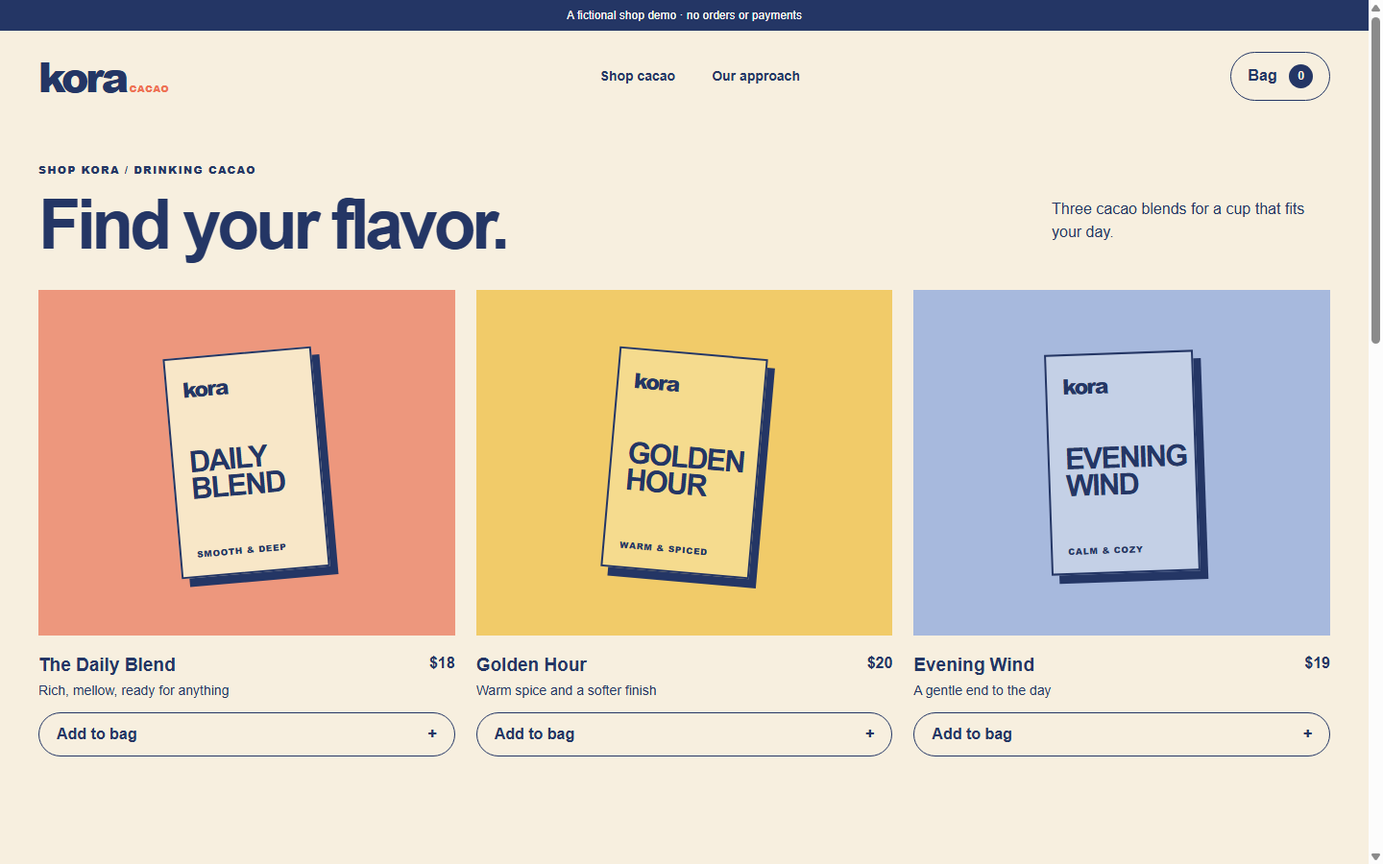
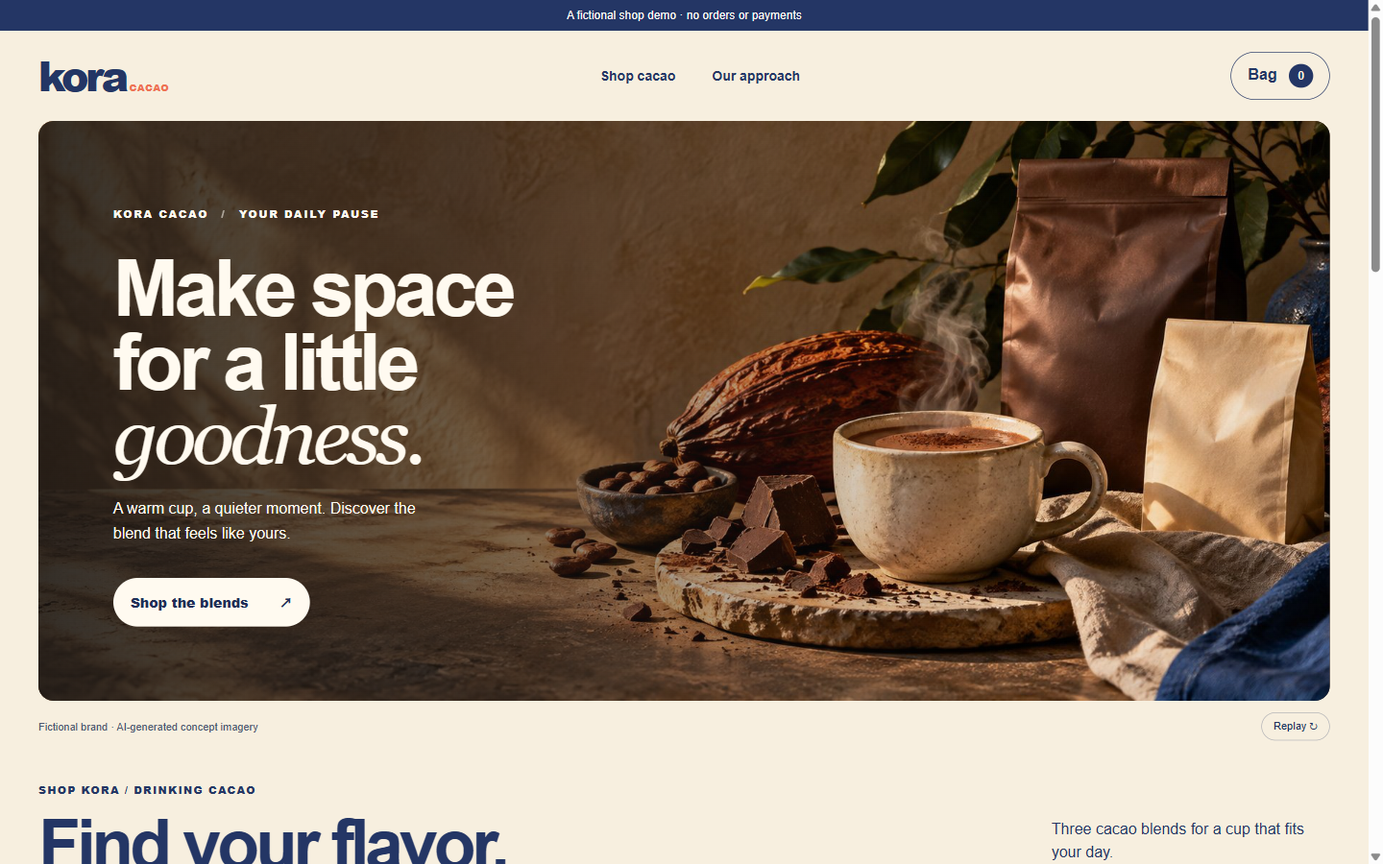
提升影像质感与交互动效

diff --git a/examples/kora-shop/visual.js b/examples/kora-shop/visual.js
@@ -1,0 +1,110 @@
+(() => {
+  const host = document.querySelector('.campaign');
+  const image = host?.querySelector('.campaign-image');
+  const button = document.querySelector('#replay-reveal');
+  if (!host || !image || !button || !window.matchMedia) return;
+  const preference = matchMedia('(prefers-reduced-motion: reduce)');
+  const canvas = document.createElement('canvas');
+  const context = canvas.getContext('2d');
+  const sampler = document.createElement('canvas');
+  const sample = sampler.getContext('2d', { willReadFrequently: true });
+  if (!context || !sample) return;
+  canvas.className = 'campaign-visual';
+  canvas.setAttribute('aria-hidden', 'true');
+  canvas.hidden = true;
+  host.append(canvas);
+  let frame = 0;
+  let started = 0;
+  let ready = false;
+  let cells = [];
+  let width = 0, height = 0, step = 0;
+
+  function finish() {
+    cancelAnimationFrame(frame);
+    frame = 0;
+    host.classList.remove('is-revealing');
+    host.dataset.reveal = 'settled';
+    canvas.hidden = true;
+    button.textContent = 'Replay ↻';
+    button.setAttribute('aria-label', 'Replay image reveal');
+  }
+
+  function render(time) {
+    if (!started) started = time;
+    const progress = Math.min(1, (time - started) / 1150);
+    const ease = 1 - (1 - progress) ** 3;
+    context.clearRect(0, 0, width, height);
+    context.fillStyle = '#30231c';
+    context.fillRect(0, 0, width, height);
+    for (const cell of cells) {
+      const x = cell.x + cell.dx * (1 - ease);
+      const y = cell.y + cell.dy * (1 - ease);
+      const size = Math.max(1, step * (.18 + .84 * ease));
+      context.fillStyle = cell.color;
+      context.fillRect(x - size / 2, y - size / 2, size, size);
+    }
+    if (progress < 1) frame = requestAnimationFrame(render);
+    else finish();
+  }
+
+  function start() {
+    if (preference.matches || document.hidden || !image.naturalWidth) return;
+    const box = host.getBoundingClientRect();
+    if (!box.width || !box.height || box.bottom < 0 || box.top > innerHeight) return;
+    try {
+      finish();
+      width = Math.round(box.width);
+      height = Math.round(box.height);
+      const density = Math.min(devicePixelRatio || 1, 1.5);
+      canvas.width = Math.round(width * density);
+      canvas.height = Math.round(height * density);
+      context.setTransform(density, 0, 0, density, 0, 0);
+      step = Math.max(12, Math.sqrt(width * height / 1400));
+      const columns = Math.ceil(width / step), rows = Math.ceil(height / step);
+      sampler.width = columns; sampler.height = rows;
+      const scale = Math.max(width / image.naturalWidth, height / image.naturalHeight);
+      const sw = width / scale, sh = height / scale;
+      const x = (image.naturalWidth - sw) * .59, y = (image.naturalHeight - sh) / 2;
+      sample.drawImage(image, x, y, sw, sh, 0, 0, columns, rows);
+      const pixels = sample.getImageData(0, 0, columns, rows).data;
+      cells = [];
+      for (let row = 0; row < rows; row++) for (let column = 0; column < columns; column++) {
+        const index = (row * columns + column) * 4;
+        const seed = Math.sin(column * 91.7 + row * 173.1) * 43758.5;
+        const angle = (seed - Math.floor(seed)) * Math.PI * 2;
+        cells.push({ x: (column + .5) * step, y: (row + .5) * step,
+          dx: Math.cos(angle) * step * 3, dy: Math.sin(angle) * step * 3,
+          color: `rgb(${pixels[index]},${pixels[index + 1]},${pixels[index + 2]})` });
+      }
+      canvas.hidden = false;
+      host.classList.add('is-revealing');
+      host.dataset.reveal = 'forming';
+      button.textContent = 'Skip';
+      button.setAttribute('aria-label', 'Skip image reveal');
+      started = 0;
+      frame = requestAnimationFrame(render);
+    } catch {
+      finish();
+      ready = false;
+      button.hidden = true;
+    }
+  }
+
+  button.addEventListener('click', () => frame ? finish() : start());
+  preference.addEventListener('change', () => { finish(); button.hidden = preference.matches || !ready; });
+  document.addEventListener('visibilitychange', () => { if (document.hidden) finish(); });
+  window.addEventListener('resize', finish, { passive: true });
+  if ('IntersectionObserver' in window) {
+    new IntersectionObserver(([entry]) => { if (!entry.isIntersecting && frame) finish(); }).observe(host);
+  }
+  const decoded = typeof image.decode === 'function' ? image.decode() : new Promise((resolve, reject) => {
+    if (image.complete) return image.naturalWidth ? resolve() : reject();
+    image.addEventListener('load', resolve, { once: true });
+    image.addEventListener('error', reject, { once: true });
+  });
+  decoded.then(() => {
+    ready = true;
+    button.hidden = preference.matches;
+    start();
+  }).catch(() => { finish(); button.hidden = true; });
+})();

diff --git a/examples/kora-shop/styles.css b/examples/kora-shop/styles.css
@@ -295,7 +295,7 @@ button:focus-visible,a:focus-visible {
   gap: 30px;
   margin-bottom: 32px;
 }
-.section-intro h1 {
+.section-intro h2 {
   font-size: clamp(42px,5vw,72px);
   letter-spacing: -.06em;
   line-height: 1;
@@ -651,4 +651,84 @@ dialog[open] {
 }
 .add-button:active, .pill:active {
   box-shadow: inset 0 2px 5px #101d3e66;
+}
+
+/* An editorial image gives the fictional collection a material world of its own. */
+.campaign {
+  position: relative;
+  isolation: isolate;
+  min-height: clamp(460px, 44vw, 600px);
+  overflow: hidden;
+  color: #fffaf0;
+  background: #4a2f21;
+  border-radius: 16px;
+}
+.campaign-image {
+  position: absolute;
+  inset: 0;
+  width: 100%;
+  height: 100%;
+  object-fit: cover;
+  object-position: 59% center;
+  transition: transform 1.2s cubic-bezier(.2,.7,.2,1);
+}
+.campaign:hover .campaign-image { transform: scale(1.025); }
+.campaign::after {
+  content: "";
+  position: absolute;
+  inset: 0;
+  z-index: 0;
+  background: linear-gradient(90deg, rgba(24,20,17,.88) 0%, rgba(24,20,17,.64) 32%, rgba(24,20,17,.04) 72%);
+  pointer-events: none;
+}
+.campaign-copy {
+  position: relative;
+  z-index: 1;
+  width: min(650px, 72%);
+  padding: clamp(38px, 5.4vw, 78px);
+}
+.campaign-kicker { font-size: 11px; letter-spacing: .16em; font-weight: 800; }
+.campaign-kicker span { margin: 0 8px; opacity: .65; }
+.campaign h1 {
+  margin: 32px 0 24px;
+  font-size: clamp(3.25rem, 5.7vw, 6rem);
+  line-height: .94;
+  letter-spacing: -.055em;
+}
+.campaign h1 em { font-family: Georgia, serif; font-weight: 400; }
+.campaign-copy>p:not(.campaign-kicker) { max-width: 340px; line-height: 1.6; font-size: 16px; }
+.campaign-link {
+  display: inline-flex;
+  justify-content: space-between;
+  align-items: center;
+  gap: 32px;
+  margin-top: 17px;
+  padding: 15px 18px;
+  color: #202f58;
+  background: #fffaf0;
+  border-radius: 999px;
+  font-size: 14px;
+  font-weight: 800;
+  text-decoration: none;
+  transition: background-color .2s, transform .2s;
+}
+.campaign-link:hover { background: #f6d776; transform: translateY(-2px); }
+.campaign-link:focus-visible { outline: 3px solid #fff; outline-offset: 5px; }
+.campaign-visual { position: absolute; inset: 0; width: 100%; height: 100%; pointer-events: none; }
+.campaign.is-revealing .campaign-image { opacity: 0; }
+.campaign-meta { display: flex; justify-content: space-between; align-items: center; gap: 16px; padding-top: 12px; color: #4f5970; font-size: 11px; }
+.campaign-meta button { border: 1px solid #20326055; border-radius: 999px; padding: 7px 12px; color: #203260; background: transparent; cursor: pointer; font: inherit; }
+.campaign-meta button:hover { background: #203260; color: #fff; }
+.campaign-meta button:focus-visible { outline: 3px solid #203260; outline-offset: 3px; }
+@media(max-width:700px) {
+  .campaign { min-height: 520px; border-radius: 12px; }
+  .campaign-image { object-position: 63% center; }
+  .campaign::after { background: linear-gradient(90deg,rgba(24,20,17,.91),rgba(24,20,17,.62) 55%,rgba(24,20,17,.22)); }
+  .campaign-copy { width: 94%; padding: 44px 26px 76px; }
+  .campaign h1 { margin: 40px 0 24px; font-size: clamp(3rem, 12.5vw, 4.2rem); }
+  .campaign-link { gap: 12px; padding: 14px 16px; font-size: 13px; }
+}
+@media(prefers-reduced-motion:reduce) {
+  .campaign-image, .campaign-link { transition: none; }
+  .campaign:hover .campaign-image, .campaign-link:hover { transform: none; }
 }

diff --git a/examples/kora-shop/index.html b/examples/kora-shop/index.html
@@ -7,6 +7,7 @@
   <title>Kora Cacao — a little daily ritual</title>
   <link rel="stylesheet" href="./styles.css">
   <script src="./app.js" defer></script>
+  <script src="./visual.js" defer></script>
 </head>
 <body id="top">
 <a class="skip" href="#main">Skip to content</a>
@@ -17,8 +18,18 @@
   <button class="cart-trigger" type="button" id="cart-open" aria-haspopup="dialog">Bag <span id="cart-count">0</span></button>
 </header>
 <main id="main" tabindex="-1">
+  <section class="campaign wrap" aria-labelledby="campaign-title">
+    <img class="campaign-image" src="./assets/cacao-ritual.jpg" alt="" width="1947" height="808" fetchpriority="high">
+    <div class="campaign-copy">
+      <p class="campaign-kicker">KORA CACAO <span aria-hidden="true"> / </span> YOUR DAILY PAUSE</p>
+      <h1 id="campaign-title">Make space<br>for a little<br><em>goodness.</em></h1>
+      <p>A warm cup, a quieter moment. Discover the blend that feels like yours.</p>
+      <a class="campaign-link" href="#shop">Shop the blends <span aria-hidden="true">↗</span></a>
+    </div>
+  </section>
+  <div class="campaign-meta wrap"><span>Fictional brand · AI-generated concept imagery</span><button id="replay-reveal" type="button" aria-label="Replay image reveal" hidden>Replay ↻</button></div>
   <section class="shop wrap" id="shop" aria-labelledby="shop-title">
-    <div class="section-intro"><div><p class="eyebrow">SHOP KORA / DRINKING CACAO</p><h1 id="shop-title">Find your flavor.</h1></div><p>Three cacao blends for a cup that fits your day.</p></div>
+    <div class="section-intro"><div><p class="eyebrow">SHOP KORA / DRINKING CACAO</p><h2 id="shop-title">Find your flavor.</h2></div><p>Three cacao blends for a cup that fits your day.</p></div>
     <div class="products">
       <article class="product"><div class="product-art art-coral"><div class="mini-pack"><span>kora</span><strong>DAILY<br>BLEND</strong><small>SMOOTH &amp; DEEP</small></div><span class="product-number">01</span></div><div class="product-info"><div><h3>The Daily Blend</h3><p>Rich, mellow, ready for anything</p></div><span>$18</span></div><button class="add-button" data-add="daily" type="button">Add to bag <span aria-hidden="true">+</span></button></article>
       <article class="product"><div class="product-art art-yellow"><div class="mini-pack mini-yellow"><span>kora</span><strong>GOLDEN<br>HOUR</strong><small>WARM &amp; SPICED</small></div><span class="product-number">02</span></div><div class="product-info"><div><h3>Golden Hour</h3><p>Warm spice and a softer finish</p></div><span>$20</span></div><button class="add-button" data-add="golden" type="button">Add to bag <span aria-hidden="true">+</span></button></article>

diff --git a/skills/portfolio-website/references/interaction-motion.md b/skills/portfolio-website/references/interaction-motion.md
@@ -8,6 +8,7 @@ These are techniques to adapt, not a required effects checklist. Combine them wh
 | --- | --- | --- |
 | Responsive icons, press and release: controls, reactions, navigation | Animate transforms, opacity or compatible SVG shapes from the real control state; expose a correct accessible label and pressed/expanded state. Design idle, focus, pressed, disabled and return states. | Keyboard and touch activation, repeated taps, cancellation, final state and reduced motion. |
 | Spatial depth, sticky stories and parallax: campaigns, portfolios, editorial | Give layers different scroll-linked movement only where the story benefits; retain readable content and a normal-flow fallback. Feature-detect scroll timelines; on small screens adjust or remove independent layer travel where it would cover text. | Watch the entire scroll at phone, intermediate and desktop widths. Measure moving layers against text, inspect slow scroll and motion off; unsupported browsers must still show the content. |
+| Image formation and particle reveal: visual stories, exhibitions, expressive brand work | Use the real, permitted image as the content and static fallback. A canvas can sample its colours and form an image from points, then settle into the original; optionally provide replay or pointer response. Keep text and controls above the visual layer. Budget particle count, stop work while hidden or off-screen, and handle decoding, resizing and reduced motion. | Observe beginning, middle and settled frames; test replay, pointer and touch where offered, resizing, pause, reduced motion, slow loading and canvas failure. The underlying image and actions must stay usable. |
 | Shared-element and card-to-detail transitions: collections, product detail, media | Use matching geometry or the View Transition API as progressive enhancement. Update the real view even if an animation is skipped; move focus appropriately when its previous target disappears. | Navigate in and back, click rapidly, use keyboard, check unsupported browsers and reduced motion. Avoid stretched text and duplicate transition names. |
 | Tilt, pointer spotlight, glowing edges: tactile product or campaign surfaces | Keep the hit target stable and animate an inner decorative layer. Clamp pointer coordinates, reset on leave/cancel and offer a still appearance on touch and keyboard. | Pointer entry/exit, fast movement, focus, touch, contrast and small viewports. Check that the highlight never conceals a label. |
 | Glass, ambient color and dimensional scenes: brand atmosphere, immersive products | Compose layered translucent surfaces with a tested opaque fallback; extract colors only from real, permitted assets if the design calls for it. For WebGL/3D use an actual interactive scene, lazy loading and a fallback, and pause unnecessary work offscreen or when hidden. | Contrast over all changing backgrounds, reduced motion, unsupported effects, device performance and missing media or WebGL. Do not imply a demo uses a 3D engine or live data when it does not. |

diff --git a/skills/ui-design/references/interaction-motion.md b/skills/ui-design/references/interaction-motion.md
@@ -8,6 +8,7 @@ These are techniques to adapt, not a required effects checklist. Combine them wh
 | --- | --- | --- |
 | Responsive icons, press and release: controls, reactions, navigation | Animate transforms, opacity or compatible SVG shapes from the real control state; expose a correct accessible label and pressed/expanded state. Design idle, focus, pressed, disabled and return states. | Keyboard and touch activation, repeated taps, cancellation, final state and reduced motion. |
 | Spatial depth, sticky stories and parallax: campaigns, portfolios, editorial | Give layers different scroll-linked movement only where the story benefits; retain readable content and a normal-flow fallback. Feature-detect scroll timelines; on small screens adjust or remove independent layer travel where it would cover text. | Watch the entire scroll at phone, intermediate and desktop widths. Measure moving layers against text, inspect slow scroll and motion off; unsupported browsers must still show the content. |
+| Image formation and particle reveal: visual stories, exhibitions, expressive brand work | Use the real, permitted image as the content and static fallback. A canvas can sample its colours and form an image from points, then settle into the original; optionally provide replay or pointer response. Keep text and controls above the visual layer. Budget particle count, stop work while hidden or off-screen, and handle decoding, resizing and reduced motion. | Observe beginning, middle and settled frames; test replay, pointer and touch where offered, resizing, pause, reduced motion, slow loading and canvas failure. The underlying image and actions must stay usable. |
 | Shared-element and card-to-detail transitions: collections, product detail, media | Use matching geometry or the View Transition API as progressive enhancement. Update the real view even if an animation is skipped; move focus appropriately when its previous target disappears. | Navigate in and back, click rapidly, use keyboard, check unsupported browsers and reduced motion. Avoid stretched text and duplicate transition names. |
 | Tilt, pointer spotlight, glowing edges: tactile product or campaign surfaces | Keep the hit target stable and animate an inner decorative layer. Clamp pointer coordinates, reset on leave/cancel and offer a still appearance on touch and keyboard. | Pointer entry/exit, fast movement, focus, touch, contrast and small viewports. Check that the highlight never conceals a label. |
 | Glass, ambient color and dimensional scenes: brand atmosphere, immersive products | Compose layered translucent surfaces with a tested opaque fallback; extract colors only from real, permitted assets if the design calls for it. For WebGL/3D use an actual interactive scene, lazy loading and a fallback, and pause unnecessary work offscreen or when hidden. | Contrast over all changing backgrounds, reduced motion, unsupported effects, device performance and missing media or WebGL. Do not imply a demo uses a 3D engine or live data when it does not. |

diff --git a/skills/portfolio-website/references/zh-CN/interaction-motion.md b/skills/portfolio-website/references/zh-CN/interaction-motion.md
@@ -8,6 +8,7 @@
 | --- | --- | --- |
 | 图标变化、按压与释放：控件、反馈、导航 | 根据真实状态改变 transform、透明度或可插值 SVG；无障碍名称和 pressed/expanded 状态保持一致。设计静止、焦点、按下、停用和回弹。 | 键盘和触屏、连续点击、取消、最终状态与减少动效。 |
 | 空间层次、粘性叙事与滚动视差：活动、作品集、编辑内容 | 确有叙事需要时让图层随滚动差速移动；保留可读内容与普通布局回退。检测滚动时间线支持；手机上调整或取消会遮挡文字的独立位移。 | 在手机、中间宽度、桌面完整滚动并检查移动图层是否盖住文字；慢速滚动、关闭动效及不支持时间线的浏览器仍要可读。 |
+| 影像形成与粒子显现：视觉叙事、展览、表现型品牌 | 使用真实且有许可的图像作为内容和静态回退。可由画布采样颜色，让粒子组成图像并最终回归原图；按需求提供重播或指针响应。文字和控件始终位于视觉层上方。控制粒子数量，页面隐藏或元素离屏时停止工作，处理解码、尺寸变化和减少动效。 | 查看开始、中间与静止帧；检查提供的重播、指针、触屏、尺寸变化、暂停、减少动效、慢加载和画布失败。原图和操作始终可用。 |
 | 共享元素、卡片到详情：内容集、商品详情、媒体 | 根据前后几何关系制作过渡，或渐进增强使用 View Transition API。动画跳过时仍更新真实页面；原焦点消失时正确安置焦点。 | 进入与返回、快速连续操作、键盘、不支持浏览器及减少动效；检查文字拉伸和重复过渡名称。 |
 | 倾斜、跟随光斑、发光边缘：有触感的品牌或商品界面 | 保持点击区域稳定，移动内部装饰层；限制指针坐标，离开或取消时复位，触屏和键盘提供静态效果。 | 指针进入/离开、快速移动、焦点、触屏、对比度和小屏；高光不得遮住文字。 |
 | 玻璃、环境色和立体场景：品牌氛围、沉浸体验 | 半透明层提供经过检查的不透明回退；仅在适用且有许可时从真实素材取色。WebGL/3D 要有实际场景、按需加载和回退，并在离屏或页面隐藏时停止不必要工作。 | 变化背景上的对比度、减少动效、不支持效果、设备性能和素材或 WebGL 缺失。没有使用 3D 引擎或实时数据时不要暗示已经使用。 |

diff --git a/skills/ui-design/references/zh-CN/interaction-motion.md b/skills/ui-design/references/zh-CN/interaction-motion.md
@@ -8,6 +8,7 @@
 | --- | --- | --- |
 | 图标变化、按压与释放：控件、反馈、导航 | 根据真实状态改变 transform、透明度或可插值 SVG；无障碍名称和 pressed/expanded 状态保持一致。设计静止、焦点、按下、停用和回弹。 | 键盘和触屏、连续点击、取消、最终状态与减少动效。 |
 | 空间层次、粘性叙事与滚动视差：活动、作品集、编辑内容 | 确有叙事需要时让图层随滚动差速移动；保留可读内容与普通布局回退。检测滚动时间线支持；手机上调整或取消会遮挡文字的独立位移。 | 在手机、中间宽度、桌面完整滚动并检查移动图层是否盖住文字；慢速滚动、关闭动效及不支持时间线的浏览器仍要可读。 |
+| 影像形成与粒子显现：视觉叙事、展览、表现型品牌 | 使用真实且有许可的图像作为内容和静态回退。可由画布采样颜色，让粒子组成图像并最终回归原图；按需求提供重播或指针响应。文字和控件始终位于视觉层上方。控制粒子数量，页面隐藏或元素离屏时停止工作，处理解码、尺寸变化和减少动效。 | 查看开始、中间与静止帧；检查提供的重播、指针、触屏、尺寸变化、暂停、减少动效、慢加载和画布失败。原图和操作始终可用。 |
 | 共享元素、卡片到详情：内容集、商品详情、媒体 | 根据前后几何关系制作过渡，或渐进增强使用 View Transition API。动画跳过时仍更新真实页面；原焦点消失时正确安置焦点。 | 进入与返回、快速连续操作、键盘、不支持浏览器及减少动效；检查文字拉伸和重复过渡名称。 |
 | 倾斜、跟随光斑、发光边缘：有触感的品牌或商品界面 | 保持点击区域稳定，移动内部装饰层；限制指针坐标，离开或取消时复位，触屏和键盘提供静态效果。 | 指针进入/离开、快速移动、焦点、触屏、对比度和小屏；高光不得遮住文字。 |
 | 玻璃、环境色和立体场景：品牌氛围、沉浸体验 | 半透明层提供经过检查的不透明回退；仅在适用且有许可时从真实素材取色。WebGL/3D 要有实际场景、按需加载和回退，并在离屏或页面隐藏时停止不必要工作。 | 变化背景上的对比度、减少动效、不支持效果、设备性能和素材或 WebGL 缺失。没有使用 3D 引擎或实时数据时不要暗示已经使用。 |

diff --git a/skills/portfolio-website/references/general-visual-review.md b/skills/portfolio-website/references/general-visual-review.md
@@ -14,6 +14,12 @@ This guide applies across website and product types. A convincing result makes t
 
 Examples are prompts for reasoning, not style assignments: the same appointment service could use a calm, explicit step-by-step flow for an anxious first-time visitor, or a compact, high-density schedule for an experienced coordinator. The distinction affects the task and interaction as well as visual expression. Conversely, two unrelated brands may both need a similar table when comparison is the job.
 
+## Make the chosen direction feel finished
+
+When the brief calls for visual richness, art-direct the actual material: subject, scale, crop, light, type rendering, surface and motion should work as one composition. A labelled rectangle or generic illustration is not automatically an adequate substitute for compelling product imagery. Use appropriately licensed, supplied or generated assets when suitable, disclose fictional imagery where relevant, and keep private material private. A data-heavy tool may instead earn polish through information density, alignment, legibility and precise states; do not force photographic heroes into it.
+
+Compare the rendered page with the user's actual reference if accessible: identify observable qualities to adapt, such as image treatment, typographic rhythm, texture or interaction choreography, without copying a personal identity or a fixed composition. Inspect the first screen, a representative content section and the main interaction; make a specific visual revision when they feel unfinished. Record unavailable references as unverified.
+
 ## Review the rendered result
 
 Review at the relevant desktop and phone widths using real content where permitted. Record the browser, tested sizes, actions and any unverified areas. A screenshot or automated check cannot establish visual quality by itself.

diff --git a/skills/ui-design/references/general-visual-review.md b/skills/ui-design/references/general-visual-review.md
@@ -14,6 +14,12 @@ This guide applies across website and product types. A convincing result makes t
 
 Examples are prompts for reasoning, not style assignments: the same appointment service could use a calm, explicit step-by-step flow for an anxious first-time visitor, or a compact, high-density schedule for an experienced coordinator. The distinction affects the task and interaction as well as visual expression. Conversely, two unrelated brands may both need a similar table when comparison is the job.
 
+## Make the chosen direction feel finished
+
+When the brief calls for visual richness, art-direct the actual material: subject, scale, crop, light, type rendering, surface and motion should work as one composition. A labelled rectangle or generic illustration is not automatically an adequate substitute for compelling product imagery. Use appropriately licensed, supplied or generated assets when suitable, disclose fictional imagery where relevant, and keep private material private. A data-heavy tool may instead earn polish through information density, alignment, legibility and precise states; do not force photographic heroes into it.
+
+Compare the rendered page with the user's actual reference if accessible: identify observable qualities to adapt, such as image treatment, typographic rhythm, texture or interaction choreography, without copying a personal identity or a fixed composition. Inspect the first screen, a representative content section and the main interaction; make a specific visual revision when they feel unfinished. Record unavailable references as unverified.
+
 ## Review the rendered result
 
 Review at the relevant desktop and phone widths using real content where permitted. Record the browser, tested sizes, actions and any unverified areas. A screenshot or automated check cannot establish visual quality by itself.

diff --git a/skills/portfolio-website/references/zh-CN/general-visual-review.md b/skills/portfolio-website/references/zh-CN/general-visual-review.md
@@ -14,6 +14,12 @@
 
 例子只用于说明思路：同样是预约服务，面对第一次使用且比较焦虑的人，可以用清楚、平和的分步流程；面对熟悉业务的排班人员，可以用紧凑、高密度的日程。区别应体现在任务与交互中，也体现在视觉表达中。反过来，两个不同品牌在都需要比较数据时，也可能适合使用相似表格。
 
+## 把方向做完整
+
+需求需要丰富视觉时，认真设计真实素材的主体、尺度、裁切、光线、字体、表面与动效，让它们形成完整构图。写着名称的方块或通用插画不一定能替代有表现力的产品影像；适合时使用用户提供、许可清晰或新生成的素材，并对虚构图像作恰当说明，保护私人内容。数据密集型工具也可以通过信息密度、对齐、易读和精确状态体现精致，不必强加图片首屏。
+
+可访问用户的实际参考时，对照可观察的图像处理、字体节奏、材质或动效编排，提炼原则而不是复制个人身份或固定版式。查看首屏、代表性内容区和主要交互；发现视觉完成度不足时做具体修改。无法查看的参考标为未验证。
+
 ## 查看实际渲染结果
 
 在相关的桌面与手机宽度下，尽可能使用获准的真实内容检查。记录浏览器、尺寸、实际操作及未验证范围。截图或自动检查本身都不能证明视觉效果合格。

diff --git a/skills/ui-design/references/zh-CN/general-visual-review.md b/skills/ui-design/references/zh-CN/general-visual-review.md
@@ -14,6 +14,12 @@
 
 例子只用于说明思路：同样是预约服务，面对第一次使用且比较焦虑的人，可以用清楚、平和的分步流程；面对熟悉业务的排班人员，可以用紧凑、高密度的日程。区别应体现在任务与交互中，也体现在视觉表达中。反过来，两个不同品牌在都需要比较数据时，也可能适合使用相似表格。
 
+## 把方向做完整
+
+需求需要丰富视觉时，认真设计真实素材的主体、尺度、裁切、光线、字体、表面与动效，让它们形成完整构图。写着名称的方块或通用插画不一定能替代有表现力的产品影像；适合时使用用户提供、许可清晰或新生成的素材，并对虚构图像作恰当说明，保护私人内容。数据密集型工具也可以通过信息密度、对齐、易读和精确状态体现精致，不必强加图片首屏。
+
+可访问用户的实际参考时，对照可观察的图像处理、字体节奏、材质或动效编排，提炼原则而不是复制个人身份或固定版式。查看首屏、代表性内容区和主要交互；发现视觉完成度不足时做具体修改。无法查看的参考标为未验证。
+
 ## 查看实际渲染结果
 
 在相关的桌面与手机宽度下，尽可能使用获准的真实内容检查。记录浏览器、尺寸、实际操作及未验证范围。截图或自动检查本身都不能证明视觉效果合格。

diff --git a/THIRD_PARTY_NOTICES.md b/THIRD_PARTY_NOTICES.md
@@ -1,6 +1,8 @@
 # Third-party notices
 
-The current example sites ship no third-party code, fonts, photographs or bundled libraries. They have no npm dependencies and download no runtime assets. Their visuals are original CSS, inline SVG or text; the current screenshots in the documentation were captured from those examples. The portfolio's asset register is `examples/alex-lin/dist/ASSETS.md`.
+The current example sites ship no third-party code, fonts, photographs or bundled libraries. They have no npm dependencies and download no runtime assets. Their visuals use original CSS, inline SVG, text and an AI-generated concept image; the screenshots in the documentation were captured from those examples. The portfolio's asset register is `examples/alex-lin/dist/ASSETS.md`.
+
+The fictional Kora Cacao example uses `examples/kora-shop/assets/cacao-ritual.jpg`, generated for this project with OpenAI image generation. It is concept imagery, not a photograph of actual products or an endorsement by a real brand.
 
 Type is set in operating-system fallback stacks. Naming a family such as `'Noto Serif SC'` inside a CSS `font-family` list asks the browser to use it when the reader's own machine already has it installed; no font file is copied, subset or redistributed here, so no font licence obligation attaches to this repository.
 
